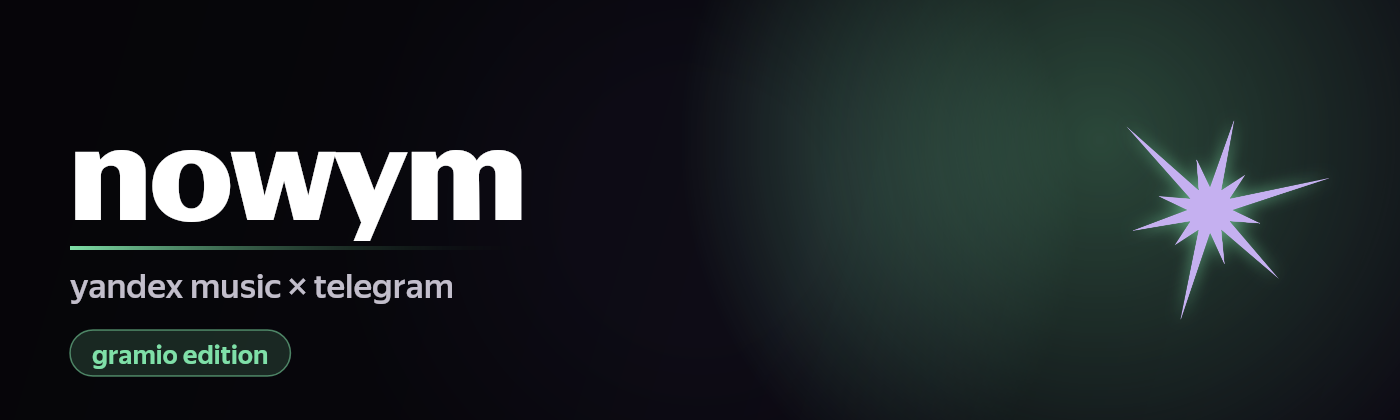
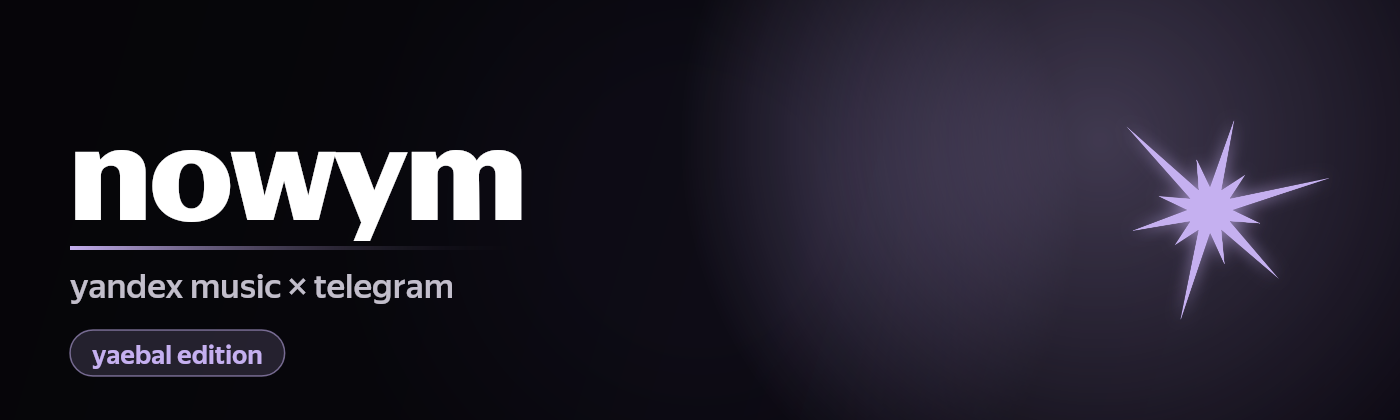
docs: баннер yaebal edition

Changed region(s): [[0.7986, 0.3405, 0.9214, 0.65], [0.0614, 0.7738, 0.215, 0.8976], [0.0614, 0.5881, 0.1843, 0.619]]

diff --git a/README.md b/README.md
@@ -1,5 +1,5 @@
 <p align="center">
-  <img src="assets/banner.png" alt="nowym — yandex music × telegram, gramio edition" width="100%">
+  <img src="assets/banner.png" alt="nowym — yandex music × telegram, yaebal edition" width="100%">
 </p>
 
 <p align="center">
